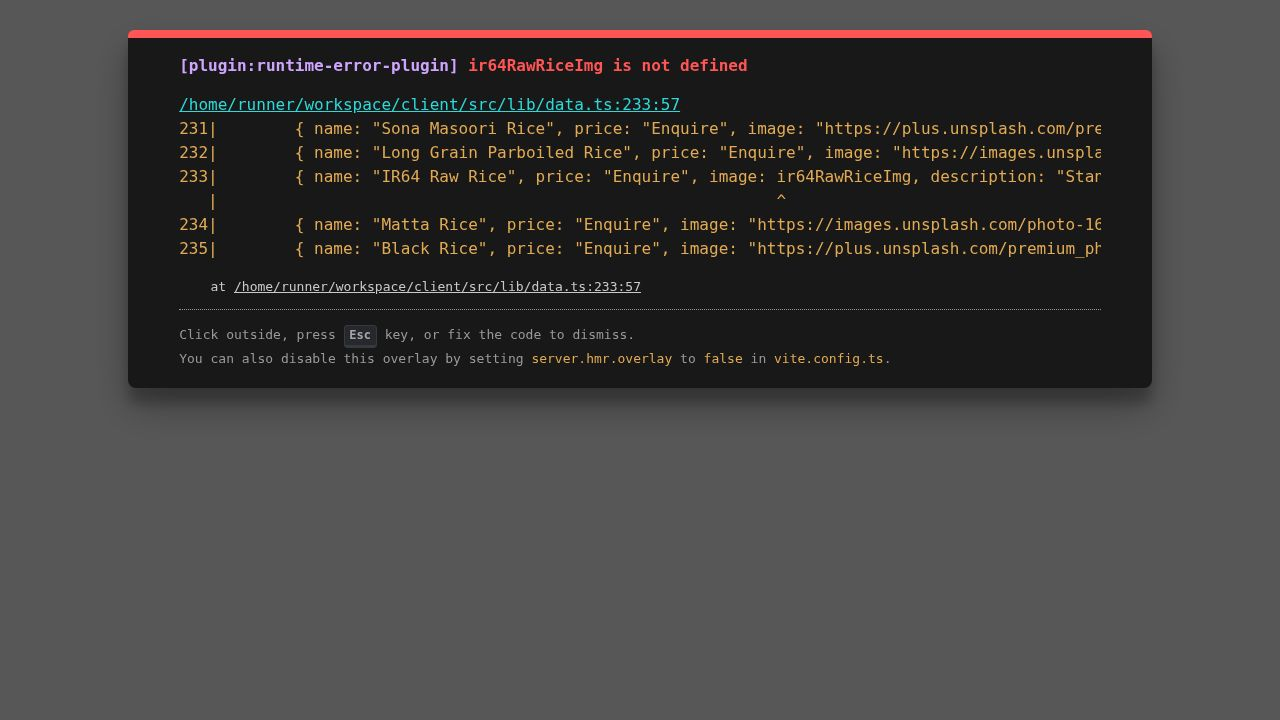
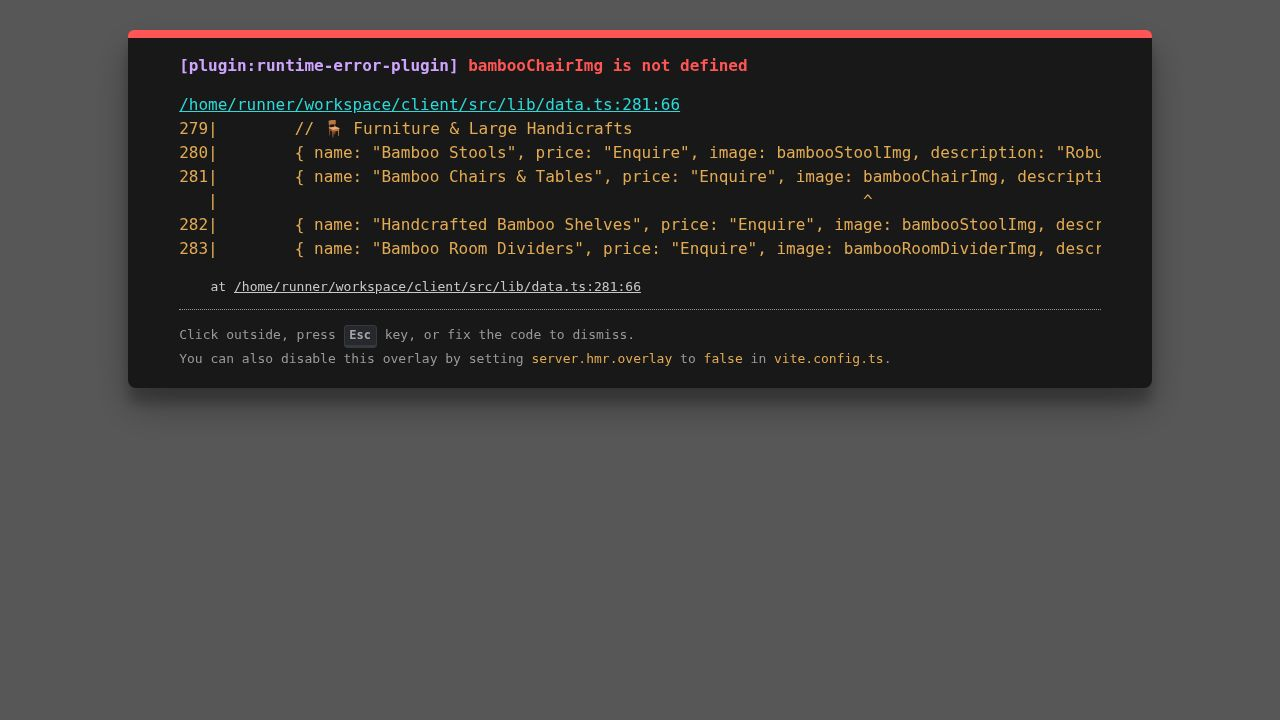
Expand product catalog with new handicraft items and imagery
Add new product categories and import statements for various bamboo handicraft items to client/src/lib/data.ts, along with corresponding image files.

Replit-Commit-Author: Agent
Replit-Commit-Session-Id: bcc0c2cb-2d9f-486a-b30f-516320adb9ad
Replit-Commit-Checkpoint-Type: full_checkpoint
Replit-Commit-Event-Id: 8578dc55-d35f-41aa-b5d6-831d8a40adb3
Replit-Commit-Screenshot-Url: https://storage.googleapis.com/screenshot-production-us-central1/d6933432-e5ed-45f9-9715-7d44665aeaf3/bcc0c2cb-2d9f-486a-b30f-516320adb9ad/s0tTGbc
Replit-Helium-Checkpoint-Created: true

diff --git a/client/src/lib/data.ts b/client/src/lib/data.ts
@@ -39,6 +39,21 @@ import bambooPenStandImg from '../assets/images/bamboo_pen_stand.jpg';
 import bambooBreadBasketImg from '../assets/images/bamboo_bread_basket.jpg';
 import bambooWallHangingImg from '../assets/images/bamboo_wall_hanging.jpg';
 import bambooGiftBoxImg from '../assets/images/bamboo_gift_box.jpg';
+import bambooCenterpieceImg from '../assets/images/bamboo_centerpiece.jpg';
+import bambooLaundryBasketImg from '../assets/images/bamboo_laundry_basket.jpg';
+import bambooGrainContainerImg from '../assets/images/bamboo_grain_container.jpg';
+import bambooPlatesBowlsImg from '../assets/images/bamboo_plates_bowls.jpg';
+import bambooCoastersImg from '../assets/images/bamboo_coasters.jpg';
+import bambooStoolImg from '../assets/images/bamboo_stool.jpg';
+import bambooRoomDividerImg from '../assets/images/bamboo_room_divider.jpg';
+import bambooLanternImg from '../assets/images/bamboo_lantern.jpg';
+import bambooPlanterImg from '../assets/images/bamboo_planter.jpg';
+import bambooFenceImg from '../assets/images/bamboo_fence.jpg';
+import bambooBirdHouseImg from '../assets/images/bamboo_bird_house.jpg';
+import bambooWindChimeImg from '../assets/images/bamboo_wind_chime.jpg';
+import bambooHandbagImg from '../assets/images/bamboo_handbag.jpg';
+import bambooJewelryBoxImg from '../assets/images/bamboo_jewelry_box.jpg';
+import bambooBanglesImg from '../assets/images/bamboo_bangles.jpg';
 
 export const products = {
   categories: [
@@ -240,16 +255,57 @@ export const products = {
       { name: "Black Rice", price: "Enquire", image: "https://plus.unsplash.com/premium_photo-1726877060096-882c2ac6d13c?w=600&auto=format&fit=crop&q=60&ixlib=rb-4.1.0&ixid=M3wxMjA3fDB8MHxzZWFyY2h8MXx8QmxhY2slMjBSaWNlfGVufDB8fDB8fHww", description: "Nutritious premium black rice, also known as 'Forbidden Rice,' prized for its high anthocyanin content and antioxidant properties. Offers a slightly nutty flavor and a striking appearance when served. A gourmet choice for health-conscious consumers and fine dining." }
     ],
     bamboo: [
-      { name: "Bamboo Fruit Basket", price: "Enquire", image: bambooFruitBasketImg, description: "Handcrafted bamboo fruit basket designed for daily table use and retail display. The open-weave design allows proper air circulation to keep fruits fresh during storage and transit. Ideal for eco-friendly home retailers and hospitality gifting programs.", subCategory: "🏺 Home Décor & Lifestyle" },
-      { name: "Bamboo Storage Basket", price: "Enquire", image: bambooStorageBasketImg, description: "Multi-purpose bamboo storage basket suitable for wardrobes, kitchen shelves, and office spaces. Woven from treated bamboo strips for strength and long-term durability. A sustainable alternative to plastic organizers for export homeware collections.", subCategory: "🧺 Storage & Utility" },
-      { name: "Bamboo Lamp Shade", price: "Enquire", image: bambooLampShadeImg, description: "Artisanal bamboo lamp shade that creates a warm, diffused lighting effect. Each piece is hand-woven to meet international safety and finishing standards. Perfect for hotels, cafés, and interior décor brands focused on natural materials.", subCategory: "💡 Lighting & Decor" },
-      { name: "Bamboo Flower Vase", price: "Enquire", image: bambooFlowerVaseImg, description: "Elegant vertical bamboo flower vase with a smooth, polished finish. Designed to hold both fresh and dried flower arrangements for modern interiors. Popular in export markets looking for lightweight, shatter-free alternatives to glass.", subCategory: "🏺 Home Décor & Lifestyle" },
-      { name: "Bamboo Tea Tray", price: "Enquire", image: bambooTeaTrayImg, description: "Premium bamboo tea tray with raised edges and sturdy handles for safe serving. Moisture-resistant finish makes it suitable for daily hotel and restaurant use. A preferred choice for eco-conscious HORECA and gifting suppliers.", subCategory: "🍵 Kitchen & Serving" },
-      { name: "Bamboo Cutlery Holder", price: "Enquire", image: bambooCutleryHolderImg, description: "Neatly segmented bamboo cutlery holder for spoons, forks, and knives. Compact footprint makes it ideal for buffet counters, cafés, and modern kitchens. Export-ready with smooth edges, uniform finishing, and secure packaging.", subCategory: "🍴 Kitchen & Serving" },
-      { name: "Bamboo Pen Stand", price: "Enquire", image: bambooPenStandImg, description: "Minimalist bamboo pen stand suitable for corporate desks and workspace branding. Manufactured with precise finishing to support custom laser engraving and logos. Widely used as a sustainable corporate giveaway in international markets.", subCategory: "🖊 Office & Corporate Gifts" },
-      { name: "Bamboo Bread Basket", price: "Enquire", image: bambooBreadBasketImg, description: "Open-top bamboo bread basket ideal for bakery counters, cafés, and breakfast buffets. Lightweight yet sturdy construction ensures easy handling and stacking for transport. Designed to meet hygiene and presentation requirements for export hospitality clients.", subCategory: "🍞 Bakery & Display" },
-      { name: "Bamboo Wall Hanging", price: "Enquire", image: bambooWallHangingImg, description: "Decorative bamboo wall hanging crafted with intricate weaving patterns. Adds a natural, artisanal touch to living rooms, lobbies, and boutique stores. Suitable for flat-pack export packaging and bulk décor orders.", subCategory: "🎋 Wall & Art Décor" },
-      { name: "Bamboo Gift Box", price: "Enquire", image: bambooGiftBoxImg, description: "Premium bamboo gift box designed for festive hampers, dry fruits, and luxury packaging. Customizable in size, lining, and branding to suit international gifting requirements. Ideal for gourmet brands and corporate gift suppliers seeking eco-friendly packaging.", subCategory: "🎁 Gifting & Hampers" }
+      // 🏺 Home Décor Items
+      { name: "Bamboo Flower Vases", price: "Enquire", image: bambooFlowerVaseImg, description: "Elegant handcrafted bamboo vases, perfect for adding a natural touch to modern interiors. Durable, lightweight, and eco-friendly.", subCategory: "🏺 Home Décor Items" },
+      { name: "Decorative Bamboo Baskets", price: "Enquire", image: bambooStorageBasketImg, description: "Intricately woven decorative baskets for storing trinkets or serving dry items. Adds a rustic charm to living spaces.", subCategory: "🏺 Home Décor Items" },
+      { name: "Handcrafted Wall Hangings", price: "Enquire", image: bambooWallHangingImg, description: "Artistic wall decor made from treated bamboo strips. Available in various traditional and contemporary designs.", subCategory: "🏺 Home Décor Items" },
+      { name: "Bamboo Table Centerpieces", price: "Enquire", image: bambooCenterpieceImg, description: "Eye-catching centerpieces for dining and coffee tables. Crafted to highlight the natural texture and beauty of bamboo.", subCategory: "🏺 Home Décor Items" },
+      { name: "Natural Fiber Showpieces", price: "Enquire", image: bambooGiftBoxImg, description: "Unique showpieces blending bamboo with other natural fibers. Ideal for export markets seeking sustainable decor accents.", subCategory: "🏺 Home Décor Items" },
+
+      // 🧺 Storage & Utility Products
+      { name: "Bamboo Storage Bins", price: "Enquire", image: bambooStorageBasketImg, description: "Sturdy and breathable storage bins for organizing clothes, toys, or office supplies. Stackable and space-saving design.", subCategory: "🧺 Storage & Utility Products" },
+      { name: "Handwoven Baskets (Multipurpose)", price: "Enquire", image: bambooFruitBasketImg, description: "Versatile woven baskets for fruits, vegetables, or general storage. Strong weave ensures longevity and heavy-load capacity.", subCategory: "🧺 Storage & Utility Products" },
+      { name: "Bamboo Laundry Baskets", price: "Enquire", image: bambooLaundryBasketImg, description: "Large, ventilated laundry baskets with lids. Keeps clothes aerated and prevents odors while looking stylish.", subCategory: "🧺 Storage & Utility Products" },
+      { name: "Grain & Rice Storage Containers", price: "Enquire", image: bambooGrainContainerImg, description: "Traditional bamboo containers treated for food safety. Perfect for storing grains, rice, and pulses in an eco-friendly way.", subCategory: "🧺 Storage & Utility Products" },
+      { name: "Handmade Utility Trays", price: "Enquire", image: bambooTeaTrayImg, description: "Flat, durable trays for organizing desk items or serving refreshments. Smooth finish prevents snagging.", subCategory: "🧺 Storage & Utility Products" },
+
+      // 🍽 Kitchen & Dining Products
+      { name: "Bamboo Serving Trays", price: "Enquire", image: bambooTeaTrayImg, description: "Elegant serving trays with handles. Heat resistant and easy to clean, perfect for hospitality and home use.", subCategory: "🍽 Kitchen & Dining Products" },
+      { name: "Bamboo Fruit & Bread Baskets", price: "Enquire", image: bambooBreadBasketImg, description: "Open-weave baskets designed to keep bread and fruits fresh. attractive display piece for dining tables.", subCategory: "🍽 Kitchen & Dining Products" },
+      { name: "Bamboo Cutlery Holders", price: "Enquire", image: bambooCutleryHolderImg, description: "Organized storage for spoons, forks, and knives. Compact design fits perfectly on counters and dining tables.", subCategory: "🍽 Kitchen & Dining Products" },
+      { name: "Bamboo Plates & Bowls", price: "Enquire", image: bambooPlatesBowlsImg, description: "Reusable, biodegradable plates and bowls. Lightweight and sturdy, a great alternative to plastic or ceramic.", subCategory: "🍽 Kitchen & Dining Products" },
+      { name: "Bamboo Tea Coasters", price: "Enquire", image: bambooCoastersImg, description: "Set of eco-friendly coasters to protect surfaces from heat and moisture. Available with holder for easy storage.", subCategory: "🍽 Kitchen & Dining Products" },
+
+      // 🪑 Furniture & Large Handicrafts
+      { name: "Bamboo Stools", price: "Enquire", image: bambooStoolImg, description: "Robust and lightweight bamboo stools. Ergonomically designed for comfortable seating in casual settings.", subCategory: "🪑 Furniture & Large Handicrafts" },
+      { name: "Bamboo Chairs & Tables", price: "Enquire", image: bambooChairImg, description: "Full furniture sets made from treated bamboo poles. Weather-resistant and ideal for patios or eco-resorts.", subCategory: "🪑 Furniture & Large Handicrafts" },
+      { name: "Handcrafted Bamboo Shelves", price: "Enquire", image: bambooStoolImg, description: "Multi-tier shelving units for books, plants, or display items. Easy to assemble and highly durable.", subCategory: "🪑 Furniture & Large Handicrafts" },
+      { name: "Bamboo Room Dividers", price: "Enquire", image: bambooRoomDividerImg, description: "Folding screens to partition spaces elegantly. Intricate weaving allows light to pass while maintaining privacy.", subCategory: "🪑 Furniture & Large Handicrafts" },
+      { name: "Bamboo Lamp Stands", price: "Enquire", image: bambooLampShadeImg, description: "Tall, artistic floor lamp stands. Adds a warm, natural ambience to living rooms and hotel lobbies.", subCategory: "🪑 Furniture & Large Handicrafts" },
+
+      // 🕯 Lighting & Lamps
+      { name: "Bamboo Hanging Lamps", price: "Enquire", image: bambooLampShadeImg, description: "Ceiling-mounted lampshades that cast beautiful shadow patterns. A statement piece for modern and rustic interiors.", subCategory: "🕯 Lighting & Lamps" },
+      { name: "Bamboo Table Lamps", price: "Enquire", image: bambooLampShadeImg, description: "Compact table lamps with bamboo bases and shades. Provides soft, diffused lighting for reading or bedside use.", subCategory: "🕯 Lighting & Lamps" },
+      { name: "Bamboo Lanterns", price: "Enquire", image: bambooLanternImg, description: "Portable lanterns for indoor or outdoor decorative lighting. Can be used with candles or electric bulbs.", subCategory: "🕯 Lighting & Lamps" },
+      { name: "Decorative Light Shades", price: "Enquire", image: bambooLampShadeImg, description: "Interchangeable shades for existing fixtures. An easy way to upgrade lighting with sustainable materials.", subCategory: "🕯 Lighting & Lamps" },
+
+      // 🎁 Gift & Handcrafted Items
+      { name: "Handmade Bamboo Gift Boxes", price: "Enquire", image: bambooGiftBoxImg, description: "Premium packaging boxes for luxury gifts. Reusable and biodegradable, enhancing brand value.", subCategory: "🎁 Gift & Handcrafted Items" },
+      { name: "Eco-Friendly Corporate Gift Sets", price: "Enquire", image: bambooPenStandImg, description: "Curated sets including pens, organizers, and accessories. perfect for sustainable corporate branding.", subCategory: "🎁 Gift & Handcrafted Items" },
+      { name: "Festival & Decorative Gift Items", price: "Enquire", image: bambooWallHangingImg, description: "Seasonal decor items and small gifts. Handcrafted to celebrate tradition and sustainability.", subCategory: "🎁 Gift & Handcrafted Items" },
+      { name: "Customized Bamboo Products", price: "Enquire", image: bambooGiftBoxImg, description: "Tailor-made solutions for bulk orders. Branding and custom designs available for events and promotions.", subCategory: "🎁 Gift & Handcrafted Items" },
+
+      // 🌱 Garden & Outdoor Products
+      { name: "Bamboo Plant Pots & Planters", price: "Enquire", image: bambooPlanterImg, description: "Natural look planters for indoor and outdoor greens. Breathable material promotes healthy root growth.", subCategory: "🌱 Garden & Outdoor Products" },
+      { name: "Bamboo Garden Fencing Panels", price: "Enquire", image: bambooFenceImg, description: "Easy-to-install fencing for garden borders or privacy screens. Weather-treated for long-term outdoor use.", subCategory: "🌱 Garden & Outdoor Products" },
+      { name: "Bamboo Bird Houses", price: "Enquire", image: bambooBirdHouseImg, description: "Cute and functional shelters for garden birds. Blends naturally with outdoor surroundings.", subCategory: "🌱 Garden & Outdoor Products" },
+      { name: "Bamboo Wind Chimes", price: "Enquire", image: bambooWindChimeImg, description: "Tuneful wind chimes made from hollow bamboo tubes. Creates a soothing, natural sound in the breeze.", subCategory: "🌱 Garden & Outdoor Products" },
+
+      // 👜 Fashion & Lifestyle Accessories
+      { name: "Bamboo Handbags", price: "Enquire", image: bambooHandbagImg, description: "Stylish and sturdy handbags with bamboo handles and bodies. A fashion-forward, eco-conscious accessory.", subCategory: "👜 Fashion & Lifestyle Accessories" },
+      { name: "Bamboo Jewelry Boxes", price: "Enquire", image: bambooJewelryBoxImg, description: "Delicate boxes for storing jewelry. Soft-lined interiors protect valuables while the exterior exudes natural elegance.", subCategory: "👜 Fashion & Lifestyle Accessories" },
+      { name: "Bamboo Bangles & Accessories", price: "Enquire", image: bambooBanglesImg, description: "Handcrafted bangles and fashion accents. Lightweight, skin-friendly, and uniquely textured.", subCategory: "👜 Fashion & Lifestyle Accessories" },
+      { name: "Eco-Friendly Wallets & Pouches", price: "Enquire", image: bambooHandbagImg, description: "Woven bamboo wallets and small pouches. Durable and distinct, perfect for daily use or travel.", subCategory: "👜 Fashion & Lifestyle Accessories" }
     ],
     textiles: [
       { name: "Pure Silk Saree", price: "Enquire", image: "https://media.istockphoto.com/id/2237077809/photo/handcrafted-paithani-sarees-featuring-traditional-motifs-like-peacocks-and-lotus-made-from.jpg?s=2048x2048&w=is&k=20&c=9lzlVdP2suHoVIySHG85QQFsihx7eSz8P7y1qR5Qd8s=", description: "Hand-loomed Banarasi silk saree featuring exquisite patterns and a luxurious texture. These sarees represent the pinnacle of Indian textile craftsmanship and elegance. Perfect for high-end fashion boutiques and traditional wedding wear collections worldwide." },
